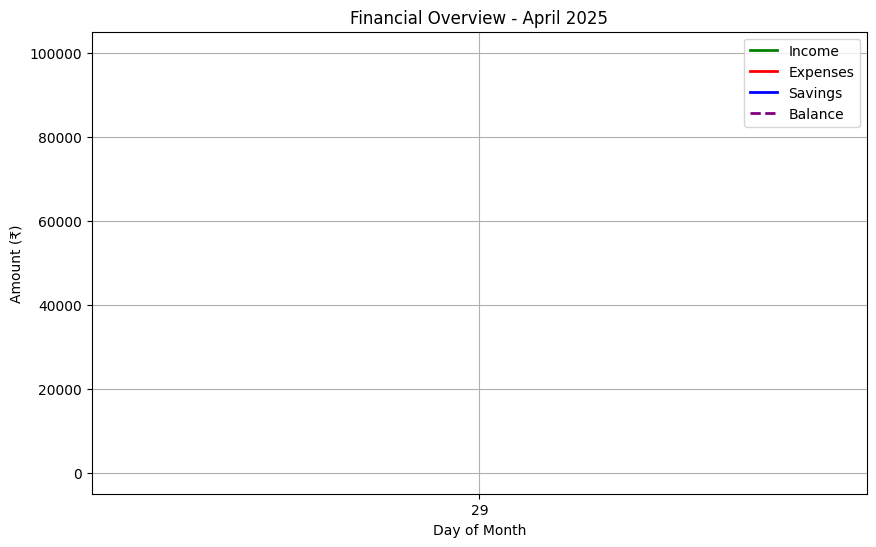
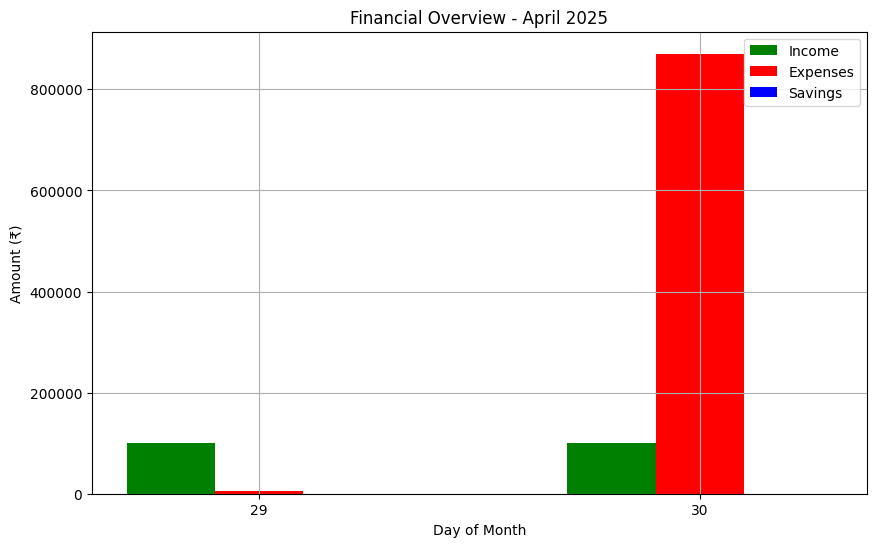
updated

diff --git a/templates/statistics.html b/templates/statistics.html
@@ -17,16 +17,8 @@
         </div>
         
         <div class="form-group">
-            <label for="category">Category</label>
-            <select id="category" name="category" required>
-                <option value="Salary">Salary</option>
-                <option value="Food">Food</option>
-                <option value="Transport">Transport</option>
-                <option value="Entertainment">Entertainment</option>
-                <option value="Utilities">Utilities</option>
-                <option value="Savings">Savings</option>
-                <option value="Other">Other</option>
-            </select>
+            <label for="category">Category (optional)</label>
+            <input type="text" id="category" name="category">
         </div>
         
         <button type="submit" class="btn">Get Statistics</button>

diff --git a/utils/graph.py b/utils/graph.py
@@ -48,25 +48,29 @@ def generate_graph(user_id, month):
         cum_income.append(total_i)
         cum_expenses.append(total_e)
         cum_savings.append(total_s)
-        cum_balance.append(total_i - total_e - total_s)
+        #cum_balance.append(total_i - total_e - total_s)
     
     # Create figure
     plt.figure(figsize=(10, 6))
     
-    # Plot with thicker lines
-    plt.plot(dates, cum_income, label='Income', color='green', linewidth=2)
-    plt.plot(dates, cum_expenses, label='Expenses', color='red', linewidth=2)
-    plt.plot(dates, cum_savings, label='Savings', color='blue', linewidth=2)
-    plt.plot(dates, cum_balance, label='Balance', color='purple', linewidth=2, linestyle='--')
-    
-    # Style the plot
+    # Bar chart
+    bar_width = 0.2
+    x = range(len(dates))
+
+    plt.bar([i - bar_width for i in x], cum_income, width=bar_width, label='Income', color='green')
+    plt.bar(x, cum_expenses, width=bar_width, label='Expenses', color='red')
+    plt.bar([i + bar_width for i in x], cum_savings, width=bar_width, label='Savings', color='blue')
+    #plt.plot(x, cum_balance, label='Balance', color='purple', linewidth=2, linestyle='--')  # optional line
+    plt.xticks(x, dates)
+
+    # Style
     plt.title(f'Financial Overview - {datetime.strptime(month, "%Y-%m").strftime("%B %Y")}')
     plt.xlabel('Day of Month')
     plt.ylabel('Amount (₹)')
     plt.legend()
     plt.grid(True)
     
-    # Save the plot
+    # Save
     os.makedirs('static/graphs', exist_ok=True)
     graph_path = f'static/graphs/graph_{user_id}_{month}.png'
     plt.savefig(graph_path, dpi=100, bbox_inches='tight')

diff --git a/app.py b/app.py
@@ -132,7 +132,7 @@ def dashboard():
         savings = cursor.fetchone()[0] or 0
         
         # Calculate balance (Income - Expenses - Savings)
-        balance = float(income) - float(expenses) - float(savings)
+        balance = max(0, float(income) - float(expenses) - float(savings))
         
         # Get proper outstanding balance (all previous months)
         cursor.execute('''
@@ -142,7 +142,11 @@ def dashboard():
             FROM transactions
             WHERE user_id = ? AND strftime('%Y-%m', date) < ?
         ''', (user_id, current_month))
-        outstanding = cursor.fetchone()[0] or 0
+        result = cursor.fetchone()[0] or 0
+        outstanding = result[0] if result and result[0] is not None else 0
+        print("Current Month:", current_month)
+        cursor.execute("SELECT date FROM transactions WHERE user_id = ?", (user_id,))
+        print("Dates in DB:", cursor.fetchall())
     
     advice = analyze_spending(user_id, current_month)
     
